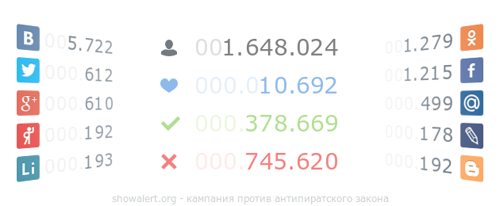
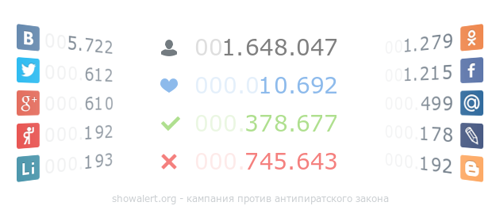
some updates

Changed region(s): [[0.6, 0.5534, 0.69, 0.6408], [0.6, 0.1748, 0.69, 0.2913], [0.6, 0.7282, 0.69, 0.8447]]

diff --git a/votes.js b/votes.js
@@ -1,1 +1,1 @@
-window.lk.votes(27695)
+window.lk.votes(27712)
